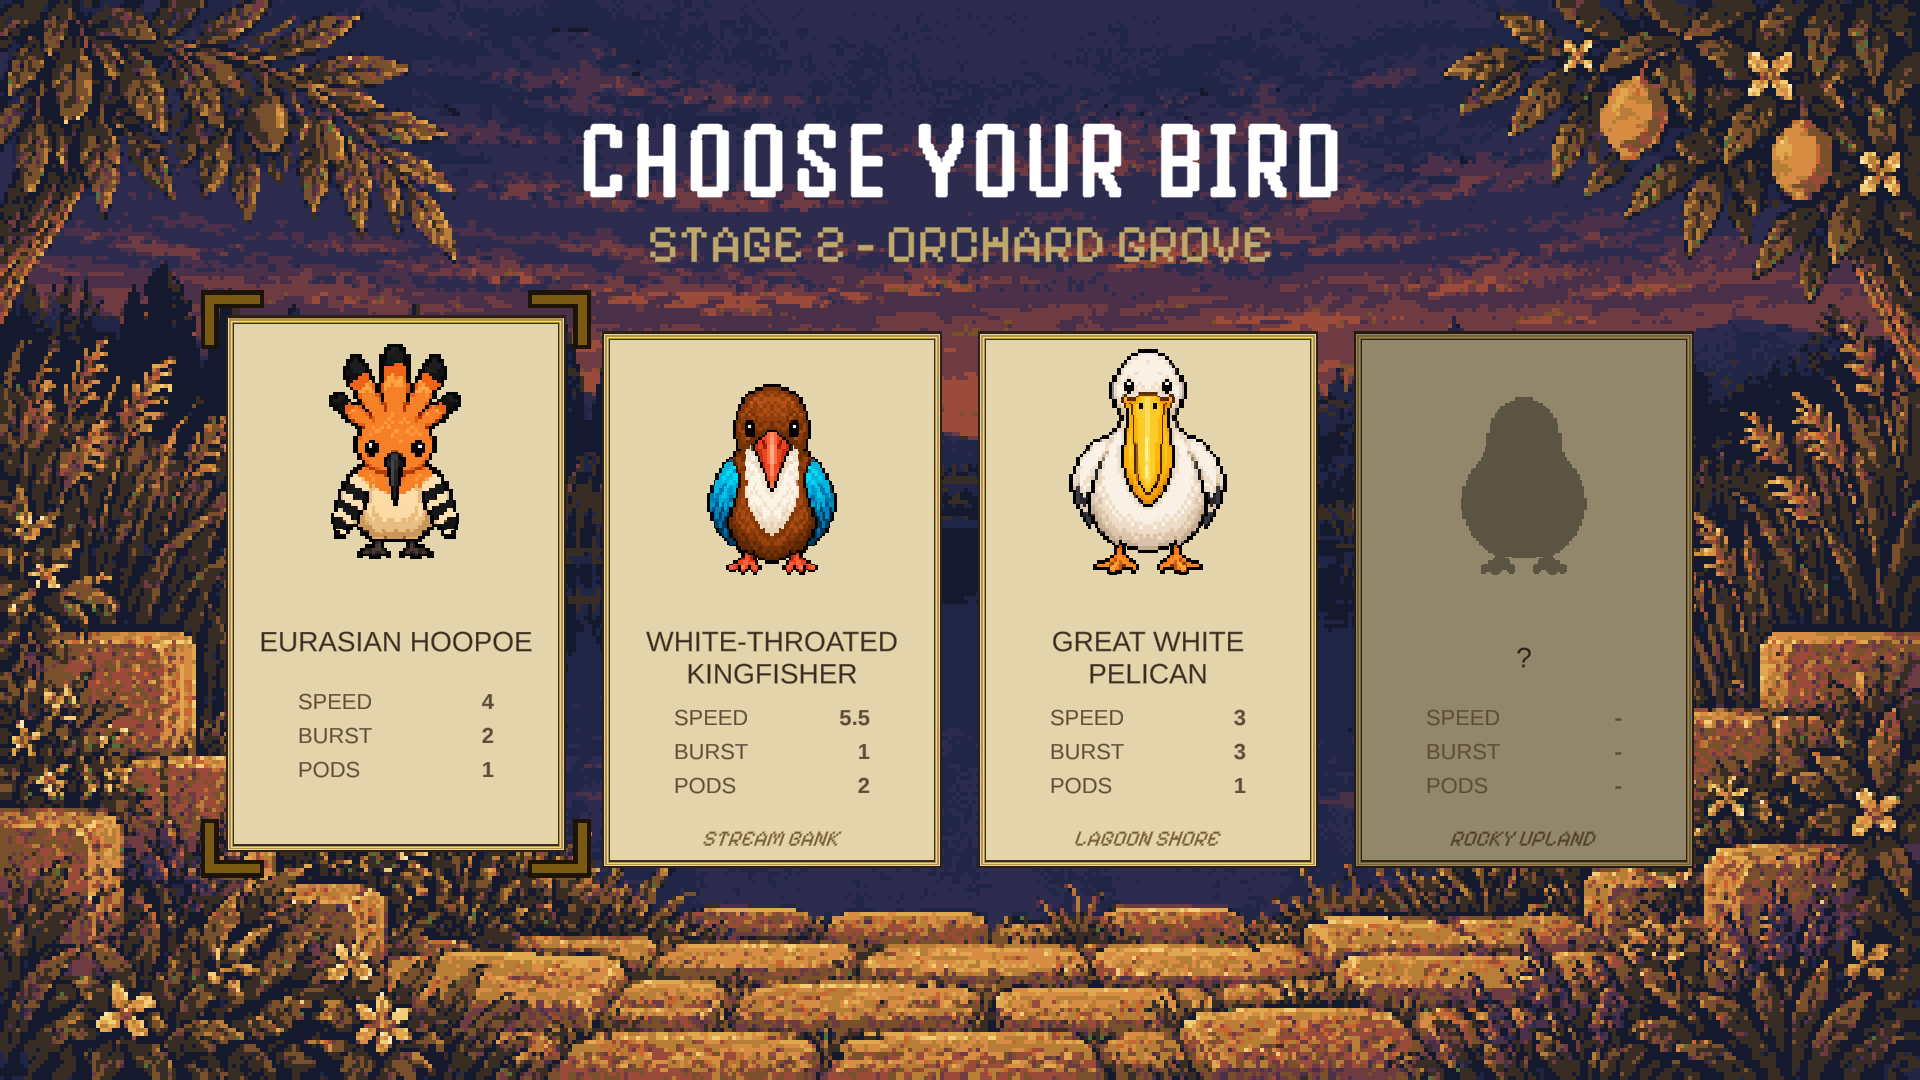
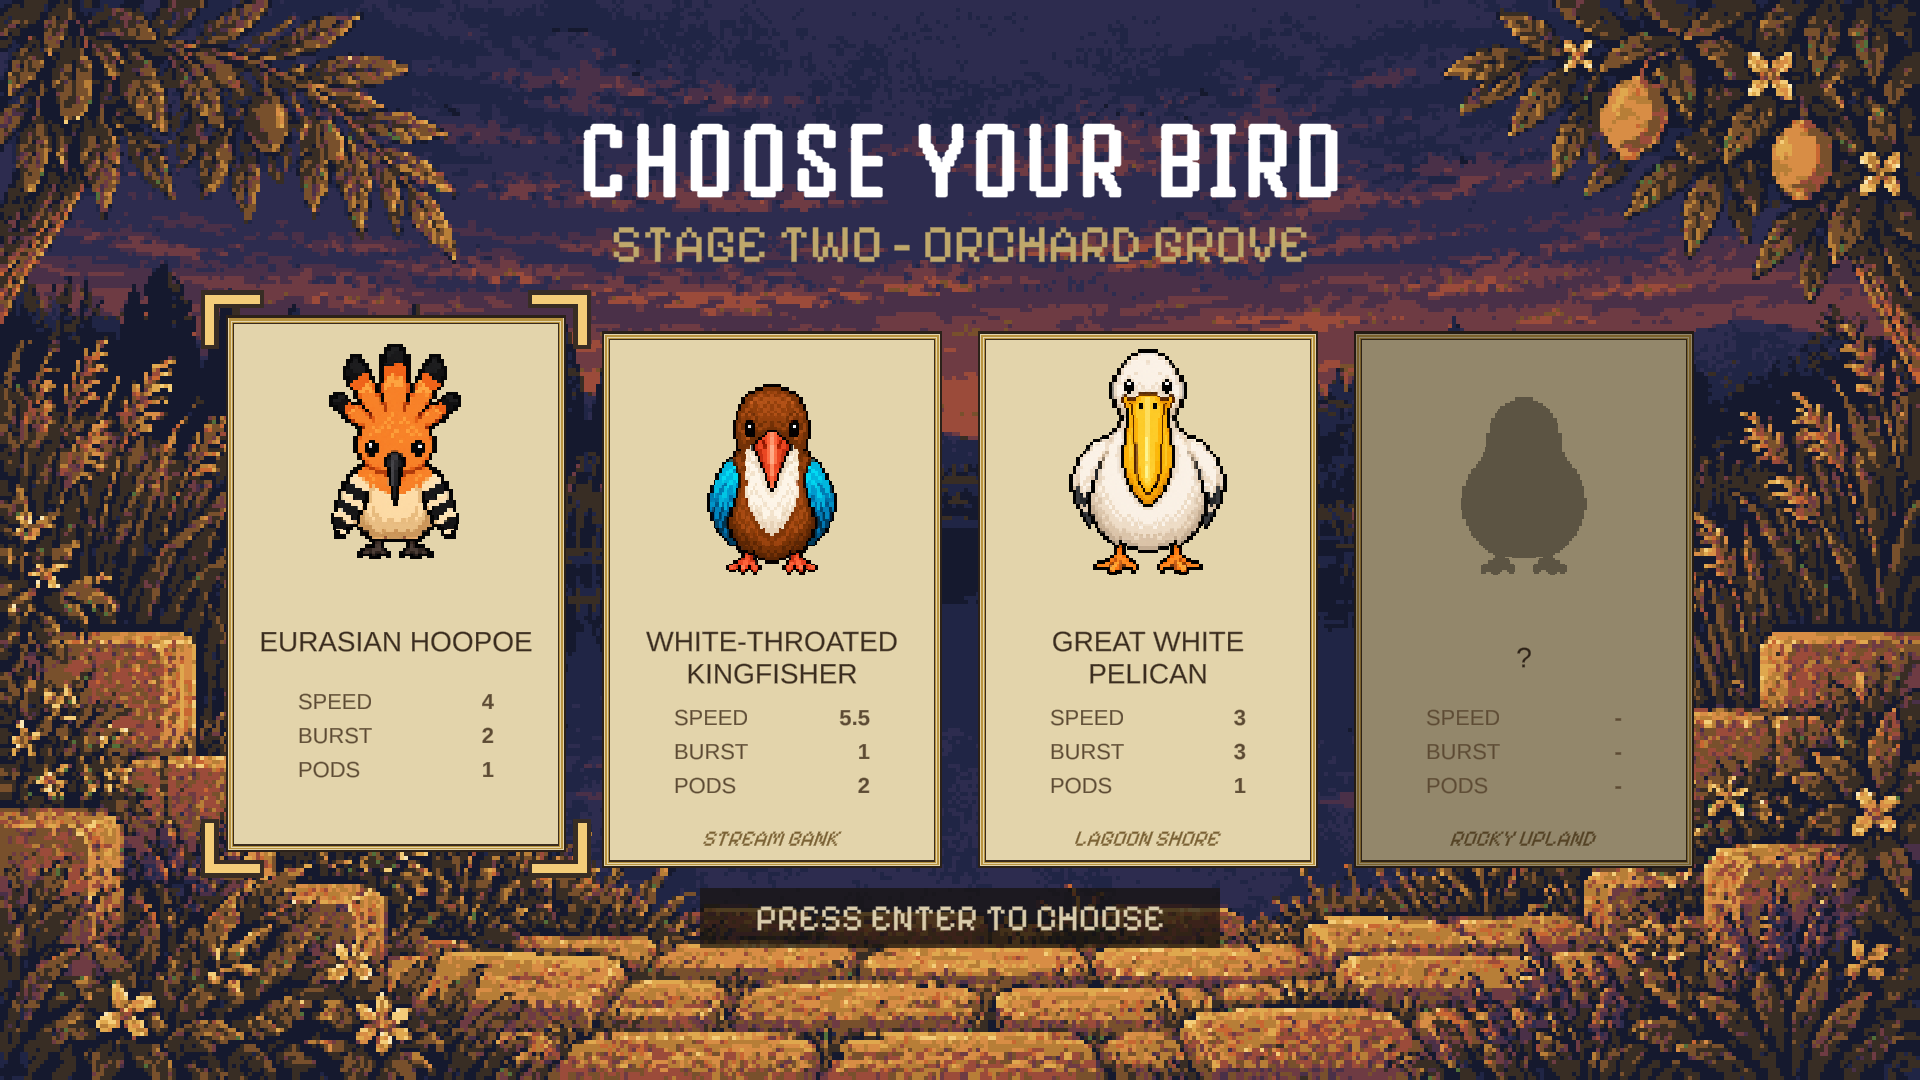
docs: refresh the README screenshots
The How to Play card, bird selection, stage-one arena and the three
habitat cards had fallen behind the game: the rules panel restyle,
the Enter-to-choose plate and gold focus bracket, the larger HUD pips,
and rewritten habitat copy. The title screen is unchanged and kept.

diff --git a/README.md b/README.md
@@ -12,7 +12,7 @@ bombs to clear obstacles, defeat enemies, and reach the exit.
 
 ## How to play
 
-![The in-game How to Play card, showing three panels: walk with WASD or the arrow keys, place a pod with Space and step away, and the pod bursting in four directions two seconds later](Docs/Images/how-to-play.png)
+![The in-game How to Play card, over the dimmed stage, showing three numbered panels: walk with WASD or the arrow keys, place a pod with Space and step away, and the pod bursting in four directions two seconds later, with the Esc key marked as pausing the game at any time](Docs/Images/how-to-play.png)
 
 Clear every common myna from the arena. A burst does not care who placed it, so the pod that
 opens a path will take the bird that placed it just as readily. Some habitats cage a feather:
@@ -36,7 +36,7 @@ The enemy is the [common myna](Docs/ArtReferences/Birds/common-myna-approved-con
 invasive species that takes the nesting cavities the native birds depend on. A larger one holds
 the final stage.
 
-![The bird selection screen: four field-guide cards over a dusk orchard, showing the hoopoe, kingfisher and pelican with their speed, burst and pod numbers, and a fourth card still locked](Docs/Images/bird-select.png)
+![The bird selection screen: four field-guide cards over a dusk orchard, showing the hoopoe, kingfisher and pelican with their speed, burst and pod numbers, a fourth card still locked, and Press Enter to Choose on a plate beneath them](Docs/Images/bird-select.png)
 
 ## The habitats
 
